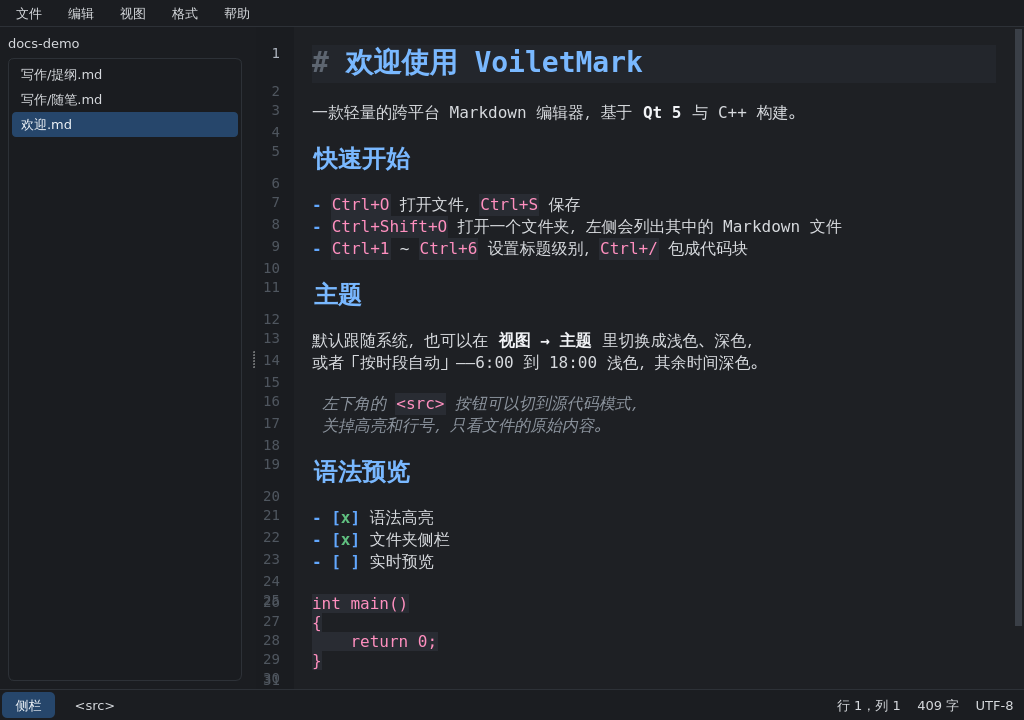
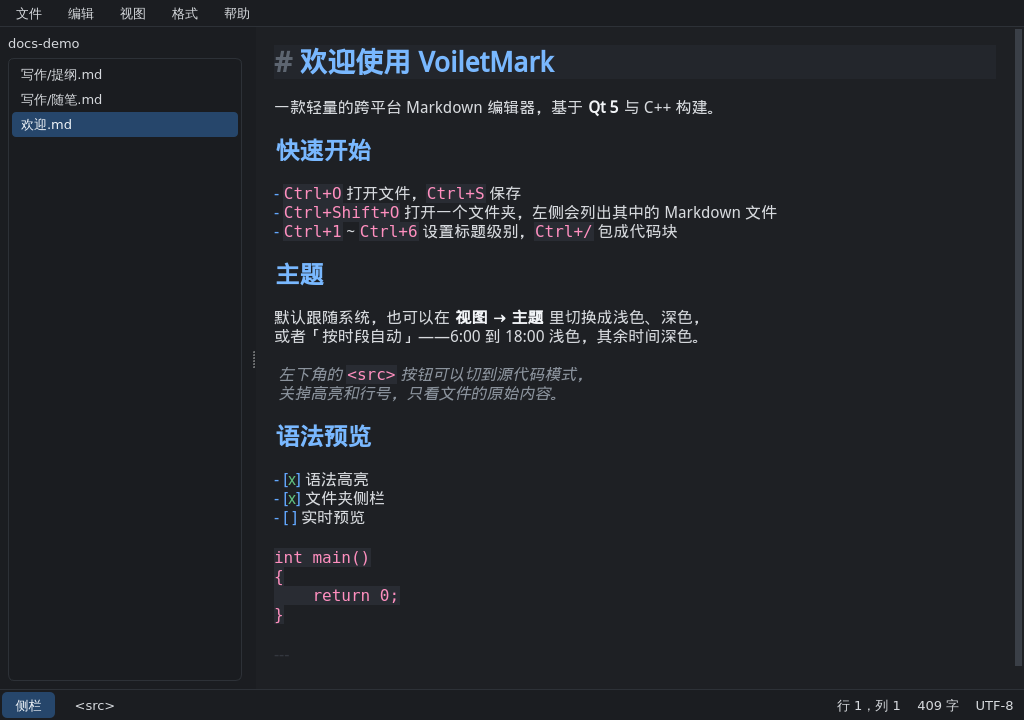
feat: v0.4.0 —— 编辑模式改成文档排版，源代码模式加行号与细线
编辑模式（默认）参照 Typora / Word 的“写字”体验
- 正文改为比例字体，整列限制 760px 居中，隐藏行号栏
- 段落统一行高 150%、段间距统一（applyBlockRhythm）
- 代码片段在文档里仍然保持等宽字体
- 隐藏标记、标题缩放、光标行露出标记等行为保留

源代码模式
- 等宽字体 + 行号栏 + 每行一条细线，通栏不居中
- 标题不再放大，逐行等高，只保留颜色

其它
- 切换模式时字体、边距、标题格式整体重建
- 新增 docs/screenshot-source.png，README 区分两种模式

diff --git a/src/MarkdownEditor.cpp b/src/MarkdownEditor.cpp
@@ -12,6 +12,7 @@
 #include <QKeyEvent>
 #include <QMimeData>
 #include <QPainter>
+#include <QPaintEvent>
 #include <QRegularExpression>
 #include <QTextBlock>
 #include <QTextCursor>
@@ -22,6 +23,23 @@
 namespace {
 
 constexpr int kLineNumberRightPadding = 14;
+constexpr int kMaxTextWidth = 760;
+
+QStringList proseFamilies()
+{
+    return {QStringLiteral("Noto Sans CJK SC"), QStringLiteral("Source Han Sans SC"),
+            QStringLiteral("WenQuanYi Micro Hei"), QStringLiteral("Microsoft YaHei"),
+            QStringLiteral("PingFang SC"), QStringLiteral("Segoe UI"),
+            QStringLiteral("DejaVu Sans")};
+}
+
+QStringList monospaceFamilies()
+{
+    return {QStringLiteral("JetBrains Mono"), QStringLiteral("Cascadia Code"),
+            QStringLiteral("Source Han Mono SC"), QStringLiteral("Noto Sans Mono CJK SC"),
+            QStringLiteral("Sarasa Mono SC"), QStringLiteral("Consolas"),
+            QStringLiteral("DejaVu Sans Mono")};
+}
 
 const QString &fenceMarker()
 {
@@ -88,8 +106,8 @@ MarkdownEditor::MarkdownEditor(QWidget *parent)
     connect(ThemeManager::instance(), &ThemeManager::schemeChanged,
             this, &MarkdownEditor::applyTheme);
 
+    m_lineNumberArea->setVisible(m_sourceMode);
     applyEditorFont();
-    updateLineNumberAreaWidth(0);
     updateCurrentLineHighlight();
 }
 
@@ -147,31 +165,45 @@ void MarkdownEditor::setEditorFontPointSize(int points)
 
 void MarkdownEditor::applyEditorFont()
 {
-    QFont font = QFontDatabase::systemFont(QFontDatabase::FixedFont);
-    font.setFamilies({QStringLiteral("JetBrains Mono"),
-                      QStringLiteral("Cascadia Code"),
-                      QStringLiteral("Source Han Mono SC"),
-                      QStringLiteral("Noto Sans Mono CJK SC"),
-                      QStringLiteral("Sarasa Mono SC"),
-                      QStringLiteral("Consolas"),
-                      QStringLiteral("DejaVu Sans Mono")});
+    QFont font;
+    if (m_sourceMode) {
+        font.setFamilies(monospaceFamilies());
+        font.setStyleHint(QFont::Monospace);
+        font.setFixedPitch(true);
+    } else {
+        font.setFamilies(proseFamilies());
+        font.setStyleHint(QFont::SansSerif);
+    }
     font.setPointSize(m_fontPointSize);
-    font.setStyleHint(QFont::Monospace);
-    font.setFixedPitch(true);
 
     setFont(font);
     document()->setDefaultFont(font);
     setTabStopDistance(QFontMetricsF(font).horizontalAdvance(QLatin1Char(' ')) * 4.0);
-    updateLineNumberAreaWidth(0);
+    updateViewportMargins();
 
-    // 标题字号是根据正文大小算的，缩放后要让高亮层重建格式。
+    // 标题字号是根据正文大小算的，缩放 / 换字体后要让高亮层重建格式。
     if (m_highlighter)
         m_highlighter->refreshAppearance();
 }
 
+void MarkdownEditor::updateViewportMargins()
+{
+    const int width = contentsRect().width();
+    int left = 0;
+    int right = 0;
+
+    if (m_sourceMode) {
+        left = lineNumberAreaWidth();
+    } else if (width > kMaxTextWidth + 120) {
+        // 编辑模式：正文限制在一段舒适宽度里并居中，像一页文档。
+        left = right = (width - kMaxTextWidth) / 2;
+    }
+    setViewportMargins(left, 0, right, 0);
+}
+
 void MarkdownEditor::updateLineNumberAreaWidth(int)
 {
-    setViewportMargins(lineNumberAreaWidth(), 0, 0, 0);
+    updateViewportMargins();
 }
 
 void MarkdownEditor::updateLineNumberArea(const QRect &rect, int dy)
@@ -202,6 +234,29 @@ void MarkdownEditor::applyTheme()
     viewport()->update();
 }
 
+void MarkdownEditor::applyBlockRhythm()
+{
+    if (!document())
+        return;
+
+    QTextBlockFormat format;
+    format.setLineHeight(150, QTextBlockFormat::ProportionalHeight);
+    format.setTopMargin(2);
+    format.setBottomMargin(6);
+
+    const bool wasModified = document()->isModified();
+
+    QTextCursor cursor(document());
+    cursor.beginEditBlock();
+    for (QTextBlock block = document()->firstBlock(); block.isValid(); block = block.next()) {
+        QTextCursor blockCursor(block);
+        blockCursor.setBlockFormat(format);
+    }
+    cursor.endEditBlock();
+
+    document()->setModified(wasModified);
+}
+
 void MarkdownEditor::setSourceMode(bool enabled)
 {
     if (m_sourceMode == enabled)
@@ -211,7 +266,11 @@ void MarkdownEditor::setSourceMode(bool enabled)
     m_activeBlock = textCursor().blockNumber();
     m_highlighter->setActiveBlock(m_activeBlock);
     m_highlighter->setRendered(!enabled);
+    m_lineNumberArea->setVisible(enabled);
 
+    // 字体、居中和标题格式都跟模式绑定，换模式时整套重建。
+    applyEditorFont();
+    updateViewportMargins();
     updateCurrentLineHighlight();
     viewport()->update();
     emit sourceModeChanged(enabled);
@@ -415,9 +474,36 @@ bool MarkdownEditor::enclosingFence(int firstBlockNumber, int lastBlockNumber,
 void MarkdownEditor::resizeEvent(QResizeEvent *event)
 {
     QPlainTextEdit::resizeEvent(event);
+    updateViewportMargins();
     const QRect rect = contentsRect();
     m_lineNumberArea->setGeometry(QRect(rect.left(), rect.top(),
                                         lineNumberAreaWidth(), rect.height()));
+}
+
+void MarkdownEditor::paintEvent(QPaintEvent *event)
+{
+    QPlainTextEdit::paintEvent(event);
+    if (!m_sourceMode)
+        return;
+
+    // 源代码模式：每行底下画一条极细的分隔线，像稿纸一样。
+    QPainter painter(viewport());
+    QColor lineColor = ThemeManager::instance()->colors().border;
+    lineColor.setAlpha(120);
+    painter.setPen(lineColor);
+
+    QTextBlock block = firstVisibleBlock();
+    int top = qRound(blockBoundingGeometry(block).translated(contentOffset()).top());
+    int bottom = top + qRound(blockBoundingRect(block).height());
+    const int width = viewport()->width();
+
+    while (block.isValid() && top <= event->rect().bottom()) {
+        if (block.isVisible() && bottom >= event->rect().top())
+            painter.drawLine(0, bottom - 1, width, bottom - 1);
+        block = block.next();
+        top = bottom;
+        bottom = top + qRound(blockBoundingRect(block).height());
+    }
 }
 
 void MarkdownEditor::keyPressEvent(QKeyEvent *event)

diff --git a/src/MarkdownHighlighter.cpp b/src/MarkdownHighlighter.cpp
@@ -9,6 +9,14 @@
 namespace {
 constexpr int StateNormal = 0;
 constexpr int StateInFence = 1;
+
+QStringList monospaceFamilies()
+{
+    return {QStringLiteral("JetBrains Mono"), QStringLiteral("Cascadia Code"),
+            QStringLiteral("Source Han Mono SC"), QStringLiteral("Noto Sans Mono CJK SC"),
+            QStringLiteral("Sarasa Mono SC"), QStringLiteral("Consolas"),
+            QStringLiteral("DejaVu Sans Mono")};
+}
 } // namespace
 
 MarkdownHighlighter::MarkdownHighlighter(QTextDocument *document)
@@ -26,6 +34,8 @@ void MarkdownHighlighter::setRendered(bool rendered)
     if (m_rendered == rendered)
         return;
     m_rendered = rendered;
+    // 源代码模式不放大标题，格式需要按模式重建。
+    rebuildFormats();
     rehighlight();
 }
 
@@ -58,7 +68,9 @@ void MarkdownHighlighter::rebuildFormats()
         m_headingFormats[level] = QTextCharFormat();
         m_headingFormats[level].setForeground(c.heading);
         m_headingFormats[level].setFontWeight(QFont::Bold);
-        m_headingFormats[level].setFontPointSize(base * scales[level]);
+        // 编辑模式按级别放大；源代码模式保持逐行等高，只保留颜色和粗细。
+        if (m_rendered)
+            m_headingFormats[level].setFontPointSize(base * scales[level]);
     }
 
     m_headingMarkerFormat = QTextCharFormat();
@@ -82,6 +94,8 @@ void MarkdownHighlighter::rebuildFormats()
     m_codeFormat.setBackground(c.codeBackground);
     m_codeFormat.setFontWeight(QFont::Normal);
     m_codeFormat.setFontItalic(false);
+    m_codeFormat.setFontFamilies(monospaceFamilies());
+    m_codeFormat.setFontFixedPitch(true);
 
     m_linkFormat = QTextCharFormat();
     m_linkFormat.setForeground(c.link);

diff --git a/src/MarkdownEditor.h b/src/MarkdownEditor.h
@@ -23,8 +23,11 @@ public:
     MarkdownHighlighter *highlighter() const { return m_highlighter; }
 
     bool isSourceMode() const { return m_sourceMode; }
-    /// 源代码模式：关掉语法高亮、行号与当前行高亮，只看文件原始内容。
+    /// 源代码模式：等宽字体 + 行号 + 每行一条细线，原样显示标记。
     void setSourceMode(bool enabled);
+
+    /// 给全文套一层统一的段落节奏（行高、段间距），加载文档后调用一次。
+    void applyBlockRhythm();
 
     /// 把选中的行设为 N 级标题（1–6）；整段已经是这一级时改回正文。
     void setHeadingLevel(int level);
@@ -38,6 +41,7 @@ signals:
 
 protected:
     void resizeEvent(QResizeEvent *event) override;
+    void paintEvent(QPaintEvent *event) override;
     void keyPressEvent(QKeyEvent *event) override;
     void wheelEvent(QWheelEvent *event) override;
     void dragEnterEvent(QDragEnterEvent *event) override;
@@ -53,6 +57,7 @@ private slots:
 
 private:
     void applyEditorFont();
+    void updateViewportMargins();
     void indentSelection(bool outdent);
     bool acceptsLocalFiles(const QMimeData *mime) const;
     void selectedBlockRange(int *firstBlock, int *lastBlock) const;

diff --git a/src/MainWindow.cpp b/src/MainWindow.cpp
@@ -444,6 +444,7 @@ void MainWindow::showWelcomeDocument()
     if (text.startsWith(QLatin1Char('\n')))
         text.remove(0, 1);
     m_editor->setPlainText(text);
+    m_editor->applyBlockRhythm();
     m_editor->document()->setModified(false);
     m_editor->document()->clearUndoRedoStacks();
     setCurrentFile(QString());
@@ -455,6 +456,7 @@ void MainWindow::newFile()
     if (!maybeSave())
         return;
     m_editor->clear();
+    m_editor->applyBlockRhythm();
     m_editor->document()->setModified(false);
     m_editor->document()->clearUndoRedoStacks();
     m_hasBom = false;
@@ -503,6 +505,7 @@ bool MainWindow::openPath(const QString &path)
         text.replace(QStringLiteral("\r\n"), QStringLiteral("\n"));
 
     m_editor->setPlainText(text);
+    m_editor->applyBlockRhythm();
     m_editor->document()->setModified(false);
     m_editor->document()->clearUndoRedoStacks();
     setCurrentFile(absolutePath);

diff --git a/README.md b/README.md
@@ -2,15 +2,17 @@
 
 一个轻量的跨平台 Markdown 编辑器，基于 **Qt 5 / C++17** 构建。
 
-当前版本 **0.3.0**。
+当前版本 **0.4.0**。
 
 ## 界面
 
-| 浅色 | 深色 |
+| 浅色 · 编辑模式 | 深色 · 编辑模式 |
 | --- | --- |
 | ![浅色主题](docs/screenshot-light.png) | ![深色主题](docs/screenshot-dark.png) |
 
-左侧是文件夹侧栏，递归列出目录里的所有 Markdown 文件，点一下就切换。
+源代码模式：等宽字体、行号、每行一条细线。
+
+![源代码模式](docs/screenshot-source.png)
 
 ## 功能
 
@@ -38,12 +40,21 @@
 
 ### 编辑模式 / 源代码模式
 
-默认是**编辑模式**：Markdown 标记不显示——标题按级别放大加粗、粗体真加粗、
-行内代码带底色、链接只留文字，看到的就是排版后的内容。光标移到哪一行，
-那一行会露出 `#`、`**` 这些原始标记，可以直接修改。
+默认是**编辑模式**，按“写字”的排版来：
 
-点左下角的 **`<src>`**（或 `Ctrl+Shift+M`）切到**源代码模式**：所有标记原样显示，
-只做着色，适合核对格式或复制纯文本；按钮会变成 `</src>`。
+- 正文用比例字体，整列限制在 760px 内**居中**，像一页文档
+- 不显示行号栏
+- 标题按级别放大加粗、粗体真加粗、行内代码带底色、链接只留文字
+- Markdown 标记默认不显示；光标移到哪一行，那一行才露出 `#`、`**` 这些标记
+- 段落统一行高 150%、段间留白
+
+点左下角的 **`<src>`**（或 `Ctrl+Shift+M`）切到**源代码模式**：
+
+- 等宽字体、行号栏、**每行一条细线**，通栏铺满
+- 所有 Markdown 标记原样显示，只做着色，不放大标题
+- 适合核对格式、对齐、复制纯文本
+
+按钮在源码模式下会变成 `</src>`。
 
 ### 文件
 
